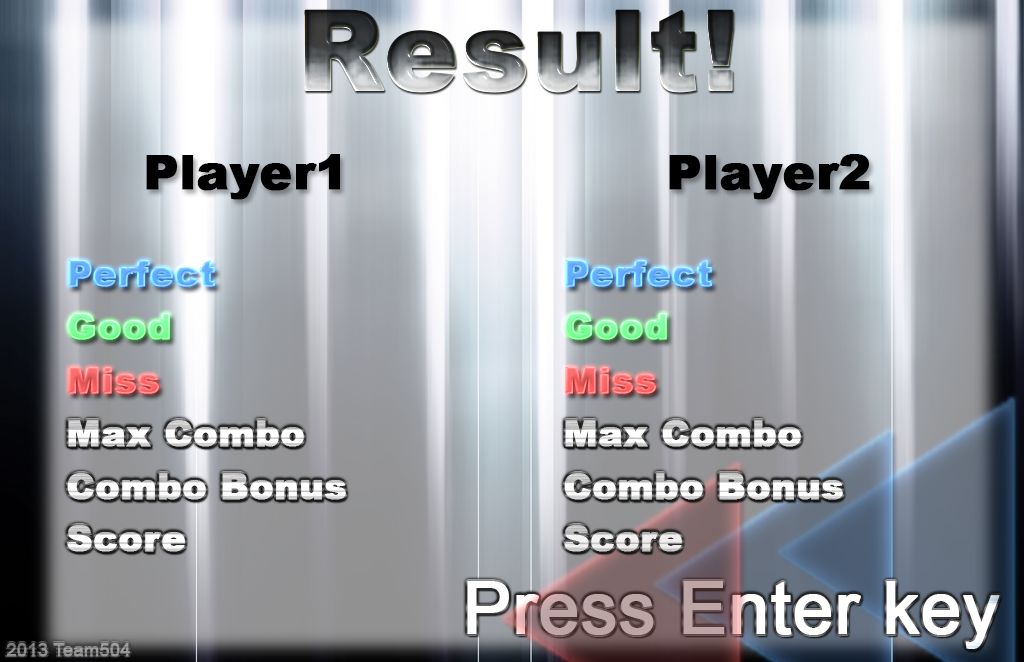
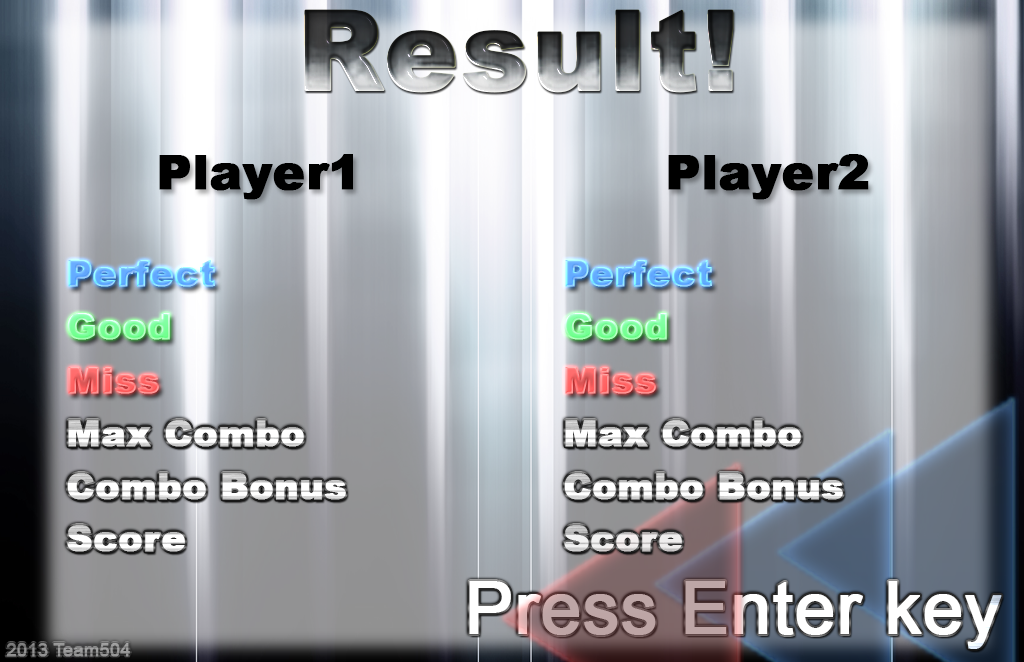
리절트 결과창을 이미지로 변경

Changed region(s): [[0.4375, 0.8761, 1.0, 0.997], [0.125, 0.2115, 0.375, 0.3323], [0.6875, 0.2417, 0.8438, 0.3021]]

diff --git a/oldboy/oldboy/RMresultManager.cpp b/oldboy/oldboy/RMresultManager.cpp
@@ -24,32 +24,10 @@ void CRMresultManager::ShowResult()
 	CRMplayer*	player1 = CRMplayer1P::GetInstance();
 	CRMplayer*	player2 = CRMplayer2P::GetInstance();
 
-	std::string p1ResultText;
-	std::string p2ResultText;
 	
 	UINT totalScoreP1 = player1->GetCount(COUNT_SCORE) + ( player1->GetCount(COUNT_MAX_COMBO) * SCORE_MAX_COMBO_RATE );
 	UINT totalScoreP2 = player2->GetCount(COUNT_SCORE) + ( player2->GetCount(COUNT_MAX_COMBO) * SCORE_MAX_COMBO_RATE );
 
-	if ( ( totalScoreP1 == totalScoreP2 ) )
-	{
-		p1ResultText.append( "Draw" );
-		p2ResultText.append( "Draw" );
-	}
-	else
-	{
-		p1ResultText.append( (totalScoreP1 > totalScoreP2) ? "Win" : "Lose" );
-		p2ResultText.append( (totalScoreP1 < totalScoreP2) ? "Win" : "Lose" );
-	}
-	
-
-	p1ResultText.append( (player1->IsDead()) ? " And Fail..." : " And Clear!!!" );
-	p2ResultText.append( (player2->IsDead()) ? " And Fail..." : " And Clear!!!" );
-	
-	CRMlabel* p1Result = new CRMlabel();
-	p1Result->CreateLabel( L"p1Result" , string2wstring( p1ResultText ), LABEL_FONT_NORMAL, 55.0f );
-	p1Result->SetRGBA( 0.0f, 0.3f, 0.7f, 1.f );
-	p1Result->SetSceneType( SCENE_RESULT );
-	p1Result->SetPosition( ( SCREEN_SIZE_X / 2 ) - 450 , 190 );
 
 	CRMlabel* p1Perfect = new CRMlabel();
 	p1Perfect->CreateLabel( L"p1Perfect" , string2wstring( std::to_string( player1->GetCount(COUNT_PERFECT) ) + " * " + std::to_string( SCORE_EACH_PERFECT ) ), LABEL_FONT_NORMAL, 35.0f );
@@ -88,11 +66,6 @@ void CRMresultManager::ShowResult()
 	p1Score->SetPosition( ( SCREEN_SIZE_X / 2 ) - 275 , 520 );
 	//////////////////////////////////////////////////////////////////////////
 
-	CRMlabel* p2Result = new CRMlabel();
-	p2Result->CreateLabel( L"p2Result" , string2wstring( p2ResultText ), LABEL_FONT_NORMAL, 55.0f );
-	p2Result->SetRGBA( 0.0f, 0.3f, 0.7f, 1.f );
-	p2Result->SetSceneType( SCENE_RESULT );
-	p2Result->SetPosition( ( SCREEN_SIZE_X / 2 ) + 50 , 180 );
 
 	CRMlabel* p2Perfect = new CRMlabel();
 	p2Perfect->CreateLabel( L"p2Perfect" , string2wstring(std::to_string( player2->GetCount(COUNT_PERFECT) ) + " * " + std::to_string( SCORE_EACH_PERFECT ) ), LABEL_FONT_NORMAL, 35.0f );

diff --git a/oldboy/oldboy/RMchildUIResultImage.cpp b/oldboy/oldboy/RMchildUIResultImage.cpp
@@ -1,0 +1,80 @@
+#include "stdafx.h"
+#include "RMchildUIResultImage.h"
+#include "RMplayer.h"
+#include "RMplayer1P.h"
+#include "RMplayer2P.h"
+
+
+CRMchildUIResultImage::CRMchildUIResultImage(void)
+{
+}
+
+
+CRMchildUIResultImage::~CRMchildUIResultImage(void)
+{
+}
+
+void CRMchildUIResultImage::Update()
+{
+	SetVisibleByScene();
+
+	CRMplayer*	player1 = CRMplayer1P::GetInstance();
+	CRMplayer*	player2 = CRMplayer2P::GetInstance();
+
+	UINT totalScoreP1 = player1->GetCount(COUNT_SCORE) + ( player1->GetCount(COUNT_MAX_COMBO) * SCORE_MAX_COMBO_RATE );
+	UINT totalScoreP2 = player2->GetCount(COUNT_SCORE) + ( player2->GetCount(COUNT_MAX_COMBO) * SCORE_MAX_COMBO_RATE );
+
+	if ( m_PlayerNumber == PLAYER_ONE )
+	{
+		if ( totalScoreP1 > totalScoreP2 )
+		{
+			if ( player1->IsDead() )
+			{
+				m_WidgetType = WIDGET_UI_IMAGE_RESULT_WIN_FAIL;
+			}
+			else
+			{
+				m_WidgetType = WIDGET_UI_IMAGE_RESULT_WIN_CLEAR;
+			}
+		}
+		else
+		{
+			if ( player1->IsDead() )
+			{
+				m_WidgetType = WIDGET_UI_IMAGE_RESULT_LOSE_FAIL;
+			}
+			else
+			{
+				m_WidgetType = WIDGET_UI_IMAGE_RESULT_LOSE_CLEAR;
+			}
+		}
+	}
+	else
+	{
+		if ( totalScoreP1 < totalScoreP2 )
+		{
+			if ( player2->IsDead() )
+			{
+				m_WidgetType = WIDGET_UI_IMAGE_RESULT_WIN_FAIL;
+			}
+			else
+			{
+				m_WidgetType = WIDGET_UI_IMAGE_RESULT_WIN_CLEAR;
+			}
+		}
+		else
+		{
+			if ( player2->IsDead() )
+			{
+				m_WidgetType = WIDGET_UI_IMAGE_RESULT_LOSE_FAIL;
+			}
+			else
+			{
+				m_WidgetType = WIDGET_UI_IMAGE_RESULT_LOSE_CLEAR;
+			}
+		}
+	}
+
+
+}
+

diff --git a/oldboy/oldboy/RMmainLoop.cpp b/oldboy/oldboy/RMmainLoop.cpp
@@ -33,6 +33,7 @@
 #include "RMdummyRender.h"
 #include "RMchildItemCardDisplay.h"
 #include "RMairTomo.h"
+#include "RMchildUIResultImage.h"
 
 CRMmainLoop::CRMmainLoop(void):
 	m_NowTime(0),
@@ -521,6 +522,23 @@ HRESULT CRMmainLoop::CreateObject()
 	newObject->SetPosition(390, 120); // 값 찾아서 define해야함 
 	newObject->SetSceneType(SCENE_SELECT_MUSIC); // 필요 없지만 그냥 초기화
 	CRMobjectManager::GetInstance()->AddObject(newObject, LAYER_PAUSE);
+
+
+	// UI이미지 일단 리절트 화면
+	newObject = new CRMchildUIResultImage();
+	newObject->SetPlayer( PLAYER_ONE );
+	newObject->SetWidgetType( WIDGET_UI_IMAGE_RESULT_LOSE_FAIL );
+	newObject->SetPosition( ( SCREEN_SIZE_X / 2 ) - 450 , 205 );
+	newObject->SetSceneType(SCENE_RESULT);
+	CRMobjectManager::GetInstance()->AddObject(newObject, LAYER_MEMORY_POOL);
+
+	newObject = new CRMchildUIResultImage();
+	newObject->SetPlayer( PLAYER_TWO );
+	newObject->SetWidgetType( WIDGET_UI_IMAGE_RESULT_LOSE_FAIL );
+	newObject->SetPosition( ( SCREEN_SIZE_X / 2 ) + 50 , 205 );
+	newObject->SetSceneType(SCENE_RESULT);
+	CRMobjectManager::GetInstance()->AddObject(newObject, LAYER_MEMORY_POOL);
+
 	//<<<< 여기까지 이미지 자원
 	//>>>> 여기부터 Label 자원
 	
@@ -692,7 +710,7 @@ HRESULT CRMmainLoop::TestKeyboard()
 #endif
 	
 	// 에어 친구 소환
-	CRMjudgeManager::GetInstance()->SetVirtualPlayerMode(true);
+	CRMjudgeManager::GetInstance()->SetVirtualPlayerMode(false);
 
 	HRESULT hr = S_OK;
 

diff --git a/oldboy/oldboy/RMresourceManager.cpp b/oldboy/oldboy/RMresourceManager.cpp
@@ -88,13 +88,19 @@ HRESULT CRMresourceManager::CreateTexture()
 	hr = TextureMaker( PAUSE_IMAGE_TITLE_OK, WIDGET_PAUSE_IMAGE_TITLE_OK );
 
 	//////////////////////////////////////////////////////////////////////////
-	//이하 플레이 화면
+	// 플레이 화면
 	//////////////////////////////////////////////////////////////////////////
 	hr = TextureMaker( PLAY_IMAGE_JUDGE_RING, WIDGET_JUDGE_RING );
 	hr = TextureMaker( PLAY_IMAGE_BLUE_GAUGE, WIDGET_GAUGE_2P );
 	hr = TextureMaker( PLAY_IMAGE_RED_GAUGE, WIDGET_GAUGE_1P );
 	
-
+	//////////////////////////////////////////////////////////////////////////
+	// UI
+	//////////////////////////////////////////////////////////////////////////
+	hr = TextureMaker( UI_IMAGE_RESULT_WIN_CLEAR, WIDGET_UI_IMAGE_RESULT_WIN_CLEAR );
+	hr = TextureMaker( UI_IMAGE_RESULT_WIN_FAIL, WIDGET_UI_IMAGE_RESULT_WIN_FAIL );
+	hr = TextureMaker( UI_IMAGE_RESULT_LOSE_CLEAR, WIDGET_UI_IMAGE_RESULT_LOSE_CLEAR );
+	hr = TextureMaker( UI_IMAGE_RESULT_LOSE_FAIL, WIDGET_UI_IMAGE_RESULT_LOSE_FAIL );
 
 	//////////////////////////////////////////////////////////////////////////
 	// 아이템 이미지 리소스 추가

diff --git a/oldboy/oldboy/RMconst.cpp b/oldboy/oldboy/RMconst.cpp
@@ -41,6 +41,11 @@ const wchar_t* BG_IMAGE_TITLE	= L"./Resource/image_bg_00_01.png";
 const wchar_t* BG_IMAGE_SELECT	= L"./Resource/image_bg_select_01.png";
 const wchar_t* BG_IMAGE_RESULT	= L"./Resource/image_bg_result_01.png";
 
+const wchar_t* UI_IMAGE_RESULT_WIN_CLEAR	= L"./Resource/image_result_win_clear.png";
+const wchar_t* UI_IMAGE_RESULT_WIN_FAIL		= L"./Resource/image_result_win_fail.png";
+const wchar_t* UI_IMAGE_RESULT_LOSE_CLEAR	= L"./Resource/image_result_lose_clear.png";
+const wchar_t* UI_IMAGE_RESULT_LOSE_FAIL	= L"./Resource/image_result_lose_fail.png";
+
 const wchar_t* PLAY_IMAGE_JUDGE_RING	= L"./Resource/judgeRing.png";
 const wchar_t* PLAY_IMAGE_BLUE_GAUGE	= L"./Resource/blueBar.png";
 const wchar_t* PLAY_IMAGE_RED_GAUGE		= L"./Resource/redBar.png";

diff --git a/oldboy/oldboy/RMconst.h b/oldboy/oldboy/RMconst.h
@@ -45,6 +45,11 @@ extern const wchar_t* BG_IMAGE_TITLE;
 extern const wchar_t* BG_IMAGE_SELECT;
 extern const wchar_t* BG_IMAGE_RESULT;
 
+extern const wchar_t* UI_IMAGE_RESULT_WIN_CLEAR;
+extern const wchar_t* UI_IMAGE_RESULT_WIN_FAIL;
+extern const wchar_t* UI_IMAGE_RESULT_LOSE_CLEAR;
+extern const wchar_t* UI_IMAGE_RESULT_LOSE_FAIL;
+
 extern const wchar_t* PLAY_IMAGE_JUDGE_RING;
 extern const wchar_t* PLAY_IMAGE_BLUE_GAUGE;
 extern const wchar_t* PLAY_IMAGE_RED_GAUGE;

diff --git a/oldboy/oldboy/RMenumSet.h b/oldboy/oldboy/RMenumSet.h
@@ -53,6 +53,11 @@ enum WidgetType
 	WIDGET_PAUSE_IMAGE_TITLE_CANCEL,
 	WIDGET_PAUSE_IMAGE_TITLE_OK,
 
+	WIDGET_UI_IMAGE_RESULT_WIN_CLEAR,
+	WIDGET_UI_IMAGE_RESULT_WIN_FAIL,
+	WIDGET_UI_IMAGE_RESULT_LOSE_CLEAR,
+	WIDGET_UI_IMAGE_RESULT_LOSE_FAIL,
+
 	WIDGET_JUDGE_RING,	//item 구현용
 	WIDGET_GAUGE_1P,	//item 구현용
 	WIDGET_GAUGE_2P,	//item 구현용

diff --git a/oldboy/oldboy/RMchildUIResultImage.h b/oldboy/oldboy/RMchildUIResultImage.h
@@ -1,0 +1,13 @@
+#pragma once
+#include "RMobject.h"
+
+class CRMchildUIResultImage :
+	public CRMobject
+{
+public:
+	CRMchildUIResultImage(void);
+	virtual ~CRMchildUIResultImage(void);
+
+	virtual void	Update();
+};
+
